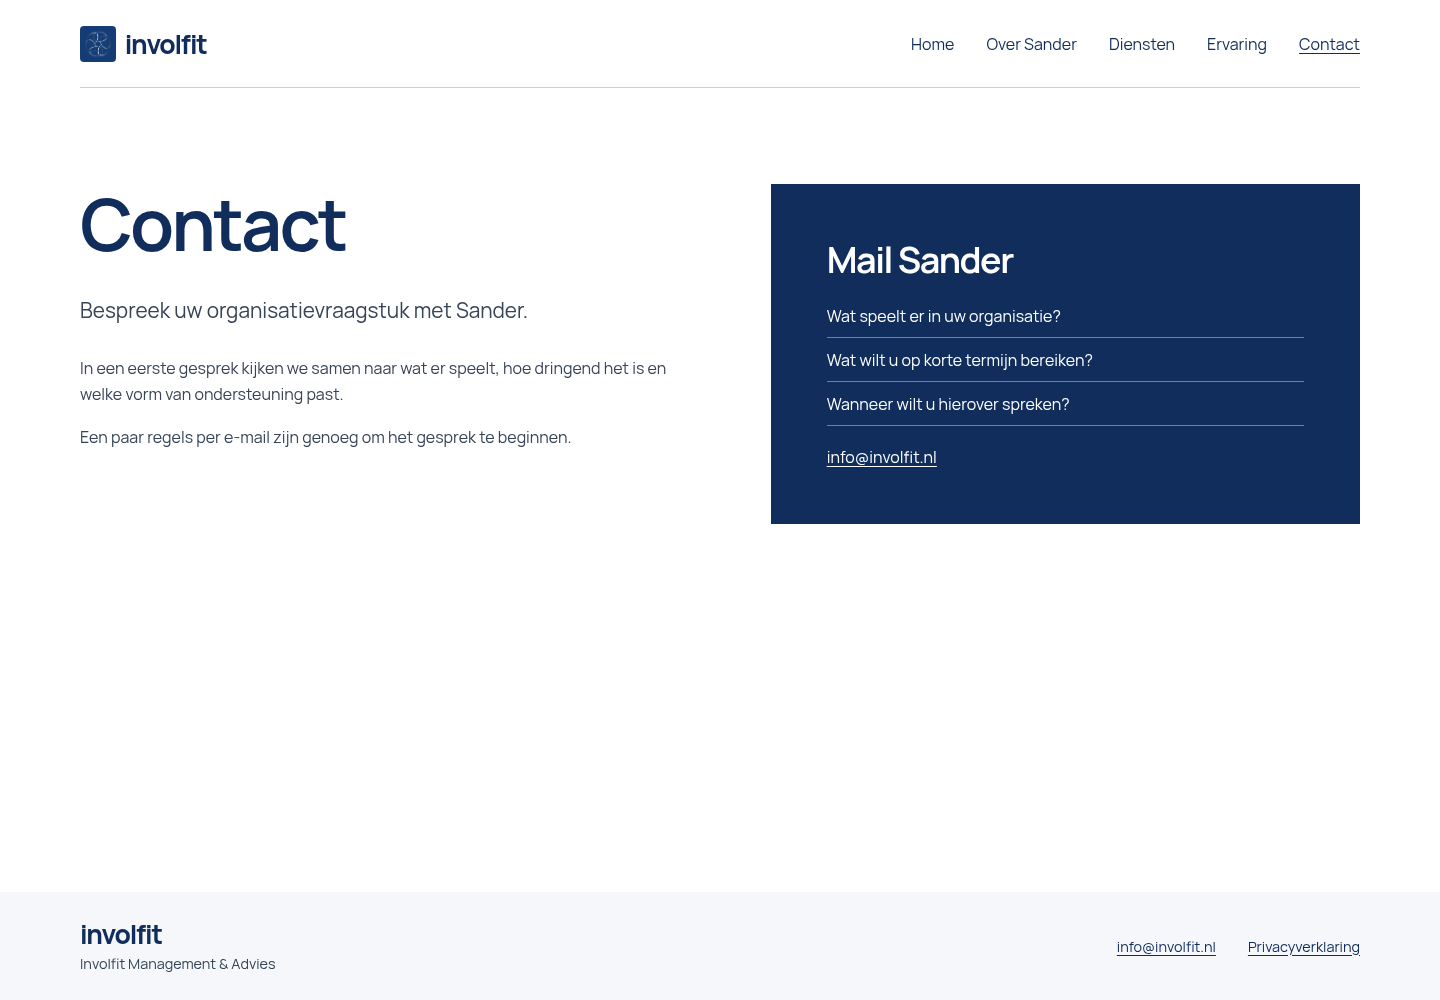
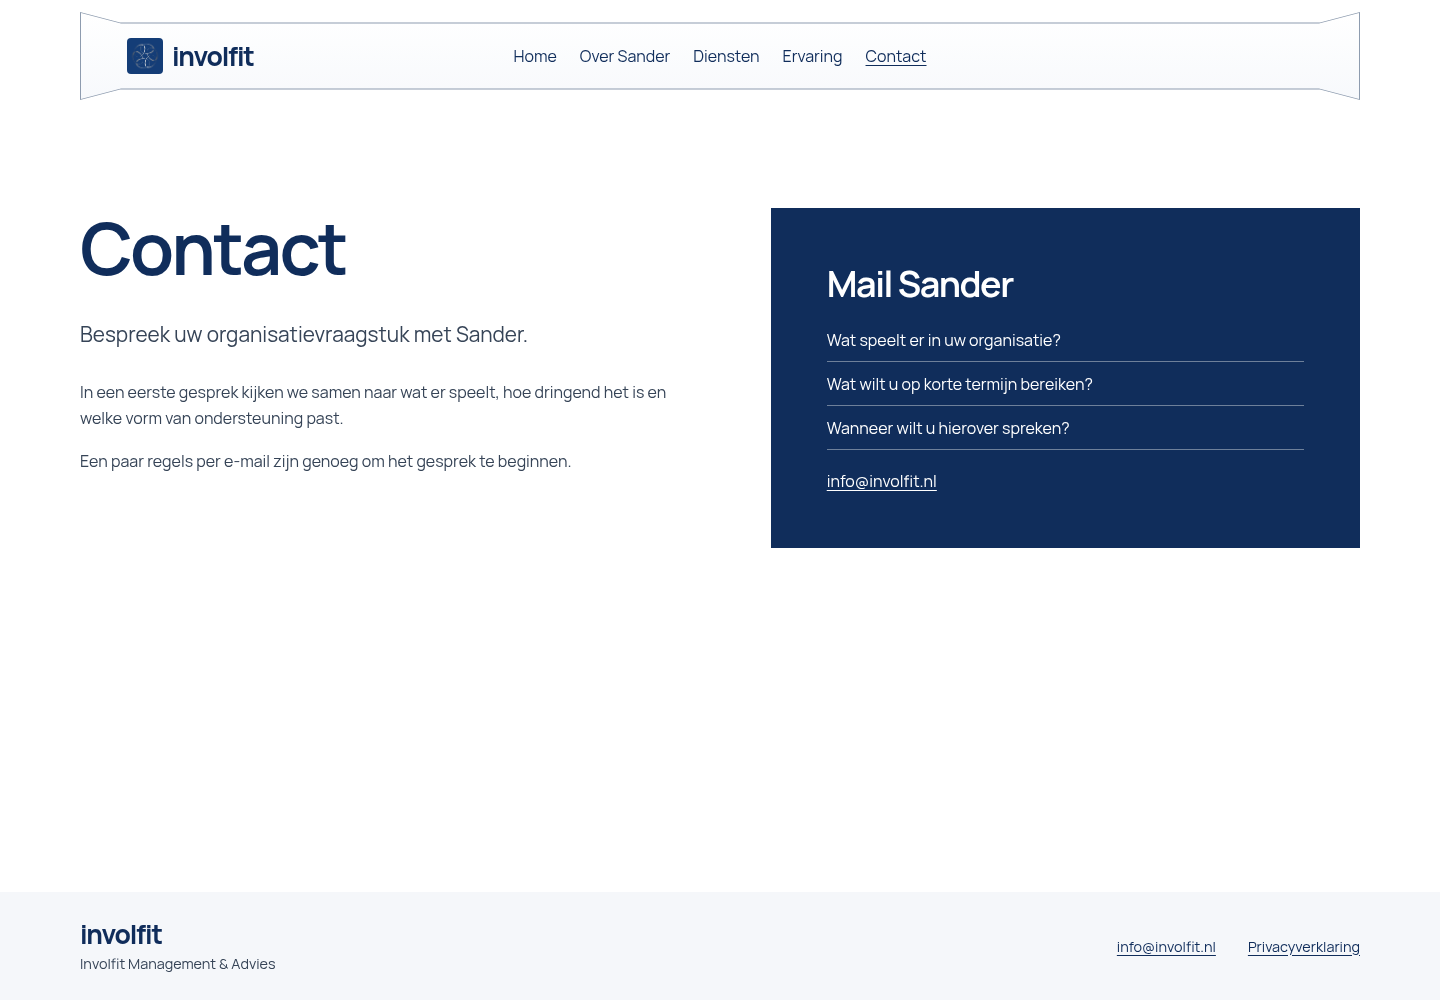
Translate navigation sketch into a chamfered header

diff --git a/projects/involfit/public/site.css b/projects/involfit/public/site.css
@@ -23,13 +23,42 @@ h1, h2 { margin: 0 0 .4em; color: var(--ink); line-height: 1.12; letter-spacing:
 h1 { font-size: clamp(2.25rem, 6vw, 4.5rem); font-weight: 650; }
 h2 { font-size: clamp(1.4rem, 3vw, 2.25rem); font-weight: 650; }
 
-.site-header, .site-footer .shell {
+.site-footer .shell {
   display: flex;
   align-items: center;
   justify-content: space-between;
   gap: 1rem;
 }
-.site-header { min-height: 5.5rem; border-bottom: 1px solid var(--line); }
+.site-header {
+  --chamfer: clamp(.85rem, 3vw, 2.5rem);
+  --notch: .65rem;
+  position: relative;
+  isolation: isolate;
+  display: grid;
+  grid-template-columns: minmax(max-content, 1fr) auto minmax(0, 1fr);
+  align-items: center;
+  gap: .65rem;
+  min-height: 5.5rem;
+  margin-block: .75rem;
+  padding: var(--notch) calc(var(--chamfer) + .45rem);
+}
+
+.site-header::before, .site-header::after {
+  content: "";
+  position: absolute;
+  inset: 0;
+  z-index: -1;
+  pointer-events: none;
+  clip-path: polygon(0 0, var(--chamfer) var(--notch),
+    calc(100% - var(--chamfer)) var(--notch), 100% 0, 100% 100%,
+    calc(100% - var(--chamfer)) calc(100% - var(--notch)),
+    var(--chamfer) calc(100% - var(--notch)), 0 100%);
+}
+.site-header::before { background: #8e9caf; }
+.site-header::after { inset: 1px; background: linear-gradient(#fff, #f7f9fc); }
+.site-header > .header-wordmark { justify-self: start; }
+.site-header .desktop-nav { flex-wrap: nowrap; gap: clamp(.65rem, 1.6vw, 1.55rem); }
+.desktop-nav a { white-space: nowrap; }
 .wordmark { font-size: 1.65rem; font-weight: 750; letter-spacing: -.05em; text-decoration: none; }
 .header-wordmark { display: inline-flex; align-items: center; gap: .55rem; }
 .header-wordmark img { display: block; border-radius: .25rem; }
@@ -89,7 +118,13 @@ summary { cursor: pointer; min-height: 44px; }
 }
 
 @media (max-width: 48rem) {
-  .site-header { min-height: 4rem; position: relative; }
+  .site-header {
+    --chamfer: .75rem;
+    --notch: .35rem;
+    grid-template-columns: 1fr auto;
+    min-height: 4rem;
+    margin-block: .5rem;
+  }
   .site-header .desktop-nav { display: none; }
   .mobile-nav { display: block; margin-left: auto; }
   .mobile-nav summary { display: flex; align-items: center; padding-inline: .45rem; }
